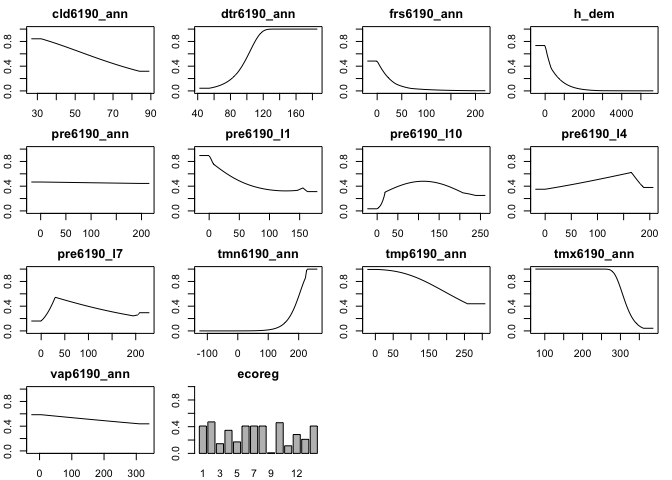
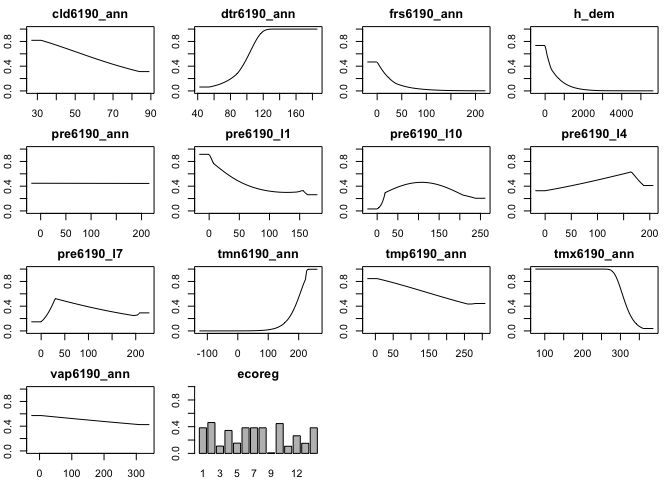
fix issue with calculation of auc

diff --git a/README.md b/README.md
@@ -57,7 +57,7 @@ dplyr::glimpse(x)
     ## Rows: 1,116
     ## Columns: 2
     ## $ pres <dbl> 1, 1, 1, 1, 1, 1, 1, 1, 1, 1, 1, 1, 1, 1, 1, 1, 1, 1, 1, 1, 1, 1,…
-    ## $ pred <dbl> 0.1197838, 0.1213791, 0.7056732, 0.1942794, 0.2633385, 0.4345415,…
+    ## $ pred <dbl> 0.1112753, 0.1128391, 0.7038097, 0.1928364, 0.2621609, 0.4292576,…
 
 Collect the responses.
 
@@ -68,46 +68,46 @@ ok = lapply(r, str)
 
     ## 'data.frame':    100 obs. of  2 variables:
     ##  $ cld6190_ann: num  26.8 27.4 28.1 28.7 29.3 ...
-    ##  $ pred       : num  0.843 0.843 0.843 0.843 0.843 ...
+    ##  $ pred       : num  0.818 0.818 0.818 0.818 0.818 ...
     ## 'data.frame':    100 obs. of  2 variables:
     ##  $ dtr6190_ann: num  42 43.5 44.9 46.4 47.8 ...
-    ##  $ pred       : num  0.0432 0.0432 0.0432 0.0432 0.0432 ...
+    ##  $ pred       : num  0.063 0.063 0.063 0.063 0.063 ...
     ## 'data.frame':    100 obs. of  2 variables:
     ##  $ frs6190_ann: num  -20 -17.6 -15.2 -12.7 -10.3 ...
-    ##  $ pred       : num  0.483 0.483 0.483 0.483 0.483 ...
+    ##  $ pred       : num  0.468 0.468 0.468 0.468 0.468 ...
     ## 'data.frame':    100 obs. of  2 variables:
     ##  $ h_dem: num  -513 -450 -388 -326 -264 ...
-    ##  $ pred : num  0.734 0.734 0.734 0.734 0.734 ...
+    ##  $ pred : num  0.735 0.735 0.735 0.735 0.735 ...
     ## 'data.frame':    100 obs. of  2 variables:
     ##  $ pre6190_ann: num  -18.5 -16.14 -13.77 -11.41 -9.05 ...
-    ##  $ pred       : num  0.467 0.467 0.467 0.467 0.467 ...
+    ##  $ pred       : num  0.447 0.447 0.447 0.447 0.447 ...
     ## 'data.frame':    100 obs. of  2 variables:
     ##  $ pre6190_l1: num  -16.3 -14.3 -12.3 -10.4 -8.4 ...
-    ##  $ pred      : num  0.896 0.896 0.896 0.896 0.896 ...
+    ##  $ pred      : num  0.915 0.915 0.915 0.915 0.915 ...
     ## 'data.frame':    100 obs. of  2 variables:
     ##  $ pre6190_l10: num  -23.8 -20.9 -18 -15.1 -12.3 ...
-    ##  $ pred       : num  0.0345 0.0345 0.0345 0.0345 0.0345 ...
+    ##  $ pred       : num  0.0319 0.0319 0.0319 0.0319 0.0319 ...
     ## 'data.frame':    100 obs. of  2 variables:
     ##  $ pre6190_l4: num  -18.8 -16.52 -14.24 -11.96 -9.68 ...
-    ##  $ pred      : num  0.351 0.351 0.351 0.351 0.351 ...
+    ##  $ pred      : num  0.327 0.327 0.327 0.327 0.327 ...
     ## 'data.frame':    100 obs. of  2 variables:
     ##  $ pre6190_l7: num  -20.8 -18.3 -15.8 -13.2 -10.7 ...
-    ##  $ pred      : num  0.16 0.16 0.16 0.16 0.16 ...
+    ##  $ pred      : num  0.147 0.147 0.147 0.147 0.147 ...
     ## 'data.frame':    100 obs. of  2 variables:
     ##  $ tmn6190_ann: num  -126 -122 -118 -115 -111 ...
-    ##  $ pred       : num  4.55e-05 4.55e-05 4.55e-05 4.55e-05 4.55e-05 ...
+    ##  $ pred       : num  6.68e-05 6.68e-05 6.68e-05 6.68e-05 6.68e-05 ...
     ## 'data.frame':    100 obs. of  2 variables:
     ##  $ tmp6190_ann: num  -22.6 -19.25 -15.91 -12.56 -9.22 ...
-    ##  $ pred       : num  0.994 0.994 0.994 0.994 0.994 ...
+    ##  $ pred       : num  0.846 0.846 0.846 0.846 0.846 ...
     ## 'data.frame':    100 obs. of  2 variables:
     ##  $ tmx6190_ann: num  75 78.2 81.3 84.5 87.6 ...
     ##  $ pred       : num  1 1 1 1 1 1 1 1 1 1 ...
     ## 'data.frame':    100 obs. of  2 variables:
     ##  $ vap6190_ann: num  -25.5 -21.8 -18.1 -14.4 -10.7 ...
-    ##  $ pred       : num  0.586 0.586 0.586 0.586 0.586 ...
+    ##  $ pred       : num  0.572 0.572 0.572 0.572 0.572 ...
     ## 'data.frame':    14 obs. of  2 variables:
     ##  $ ecoreg: chr  "1" "2" "3" "4" ...
-    ##  $ pred  : num  0.41 0.471 0.145 0.345 0.172 ...
+    ##  $ pred  : num  0.383 0.462 0.11 0.344 0.153 ...
 
 Plot the response curves
 
